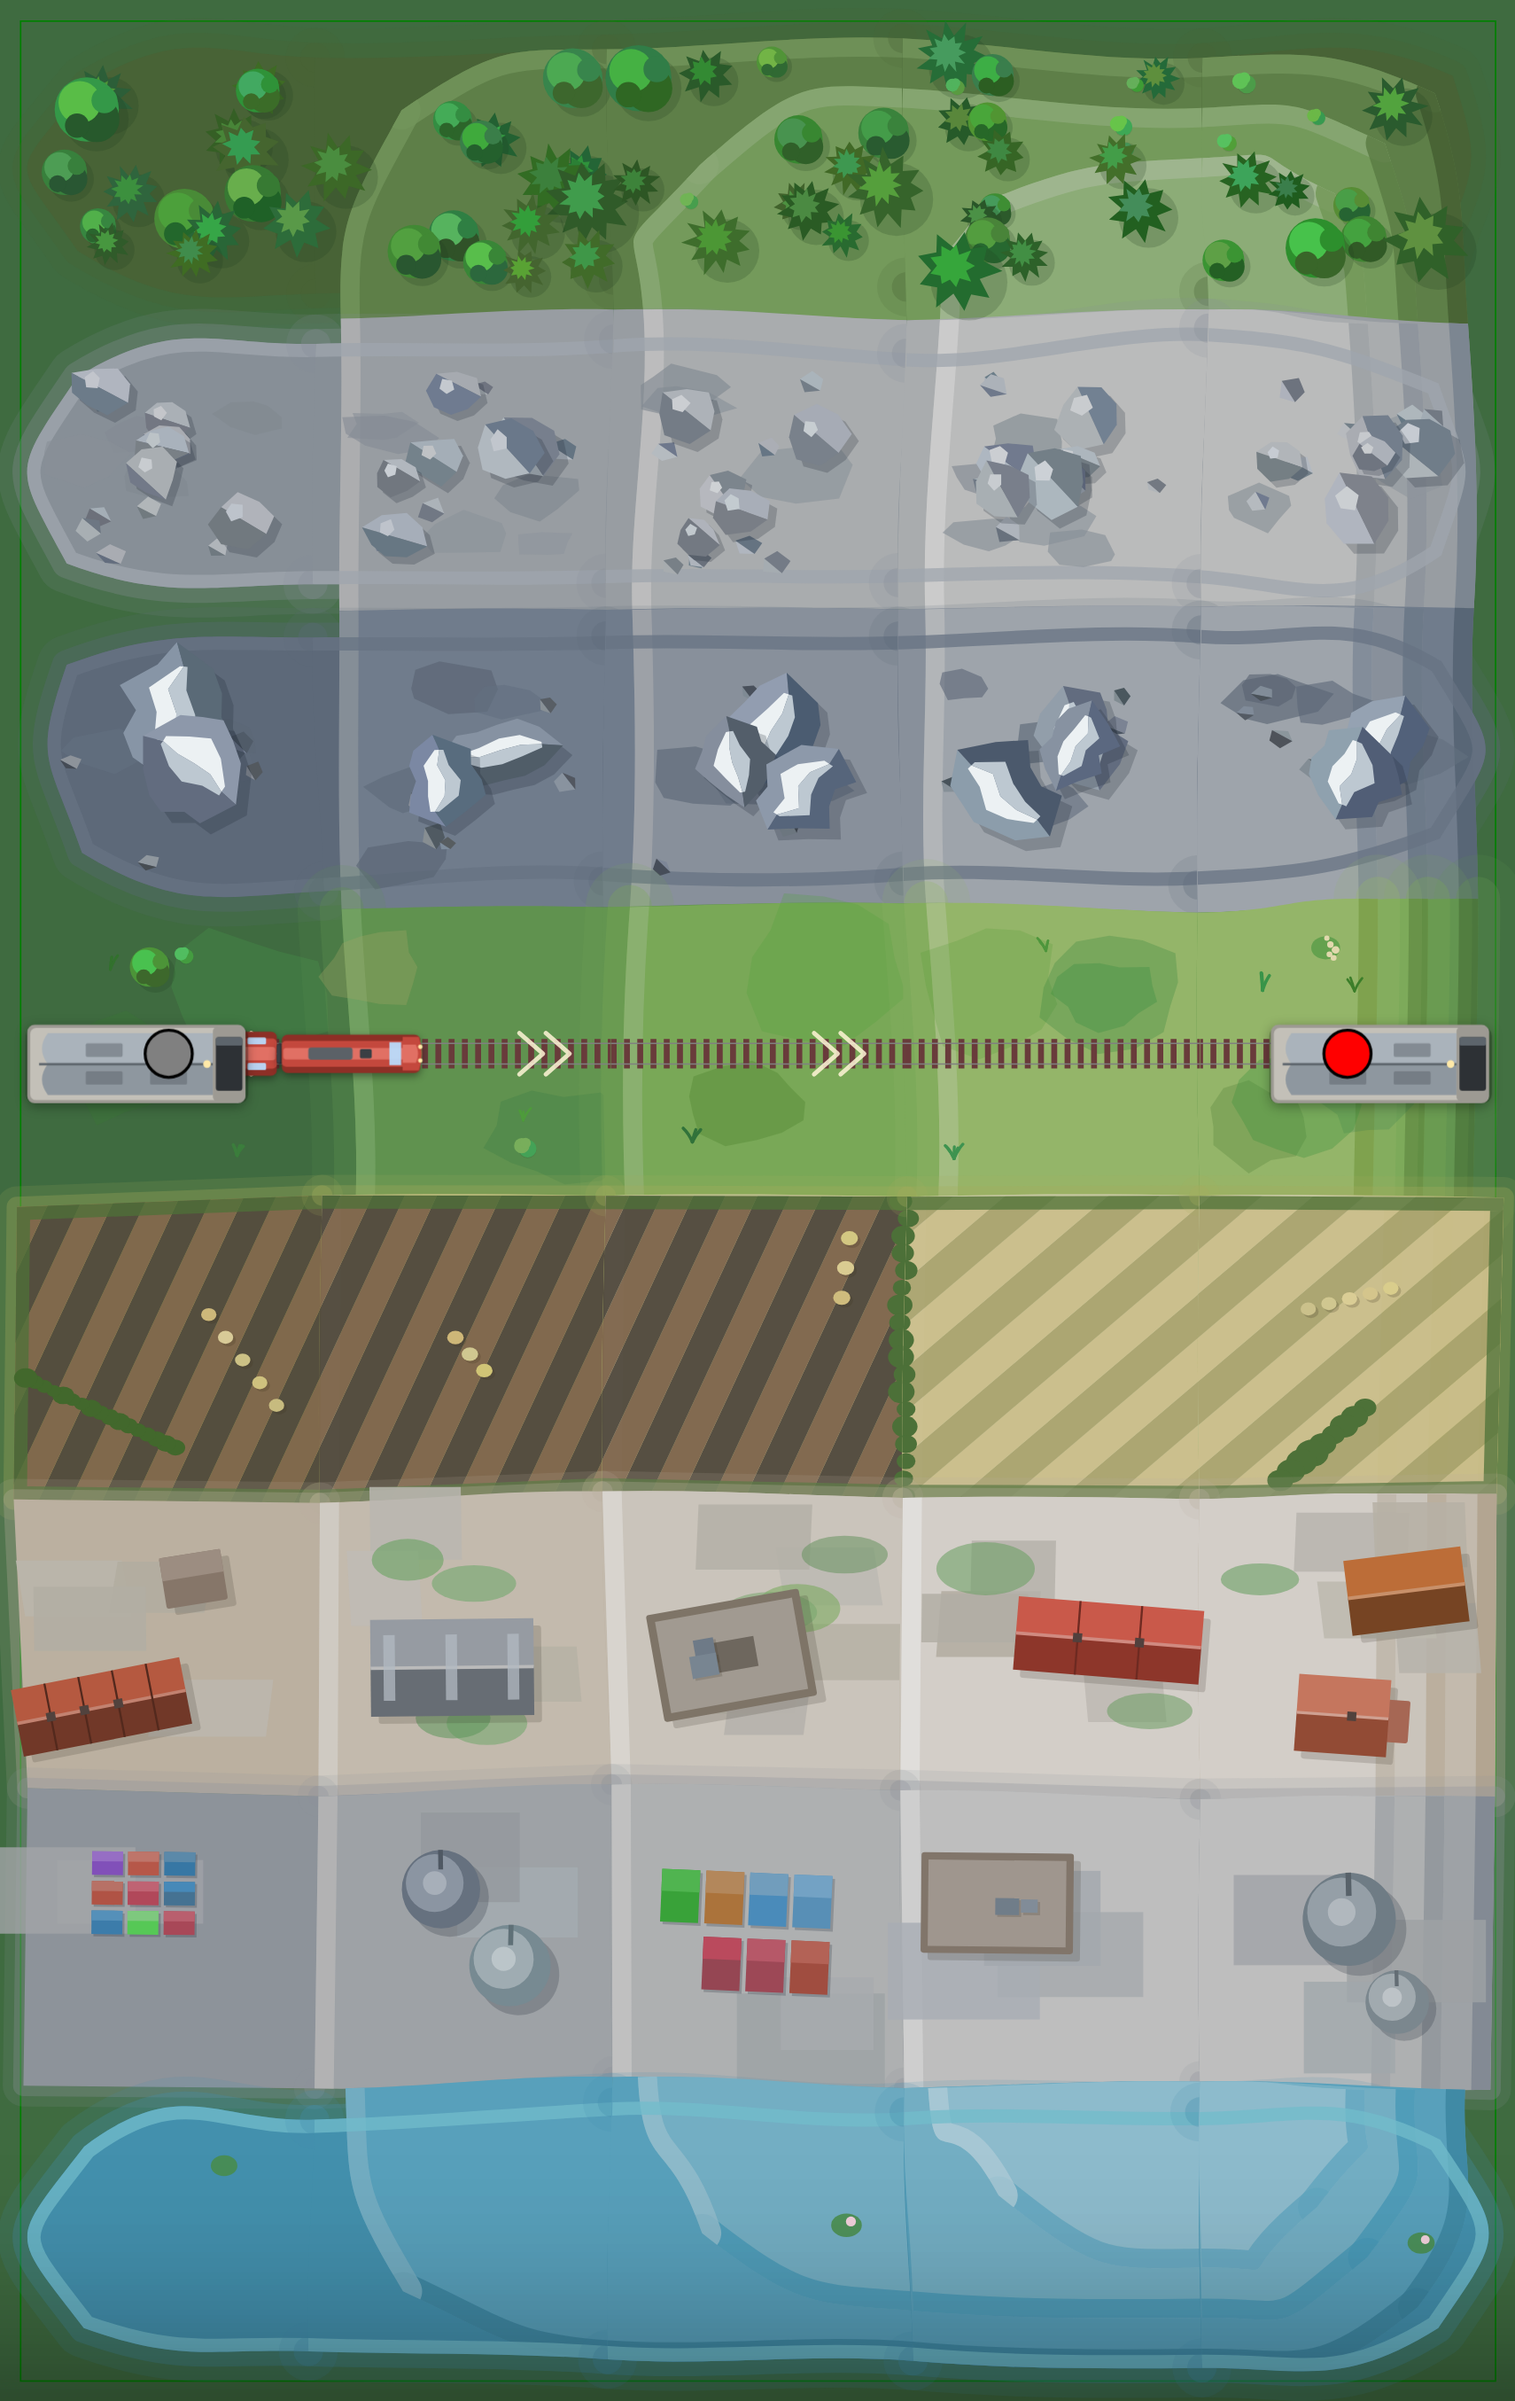
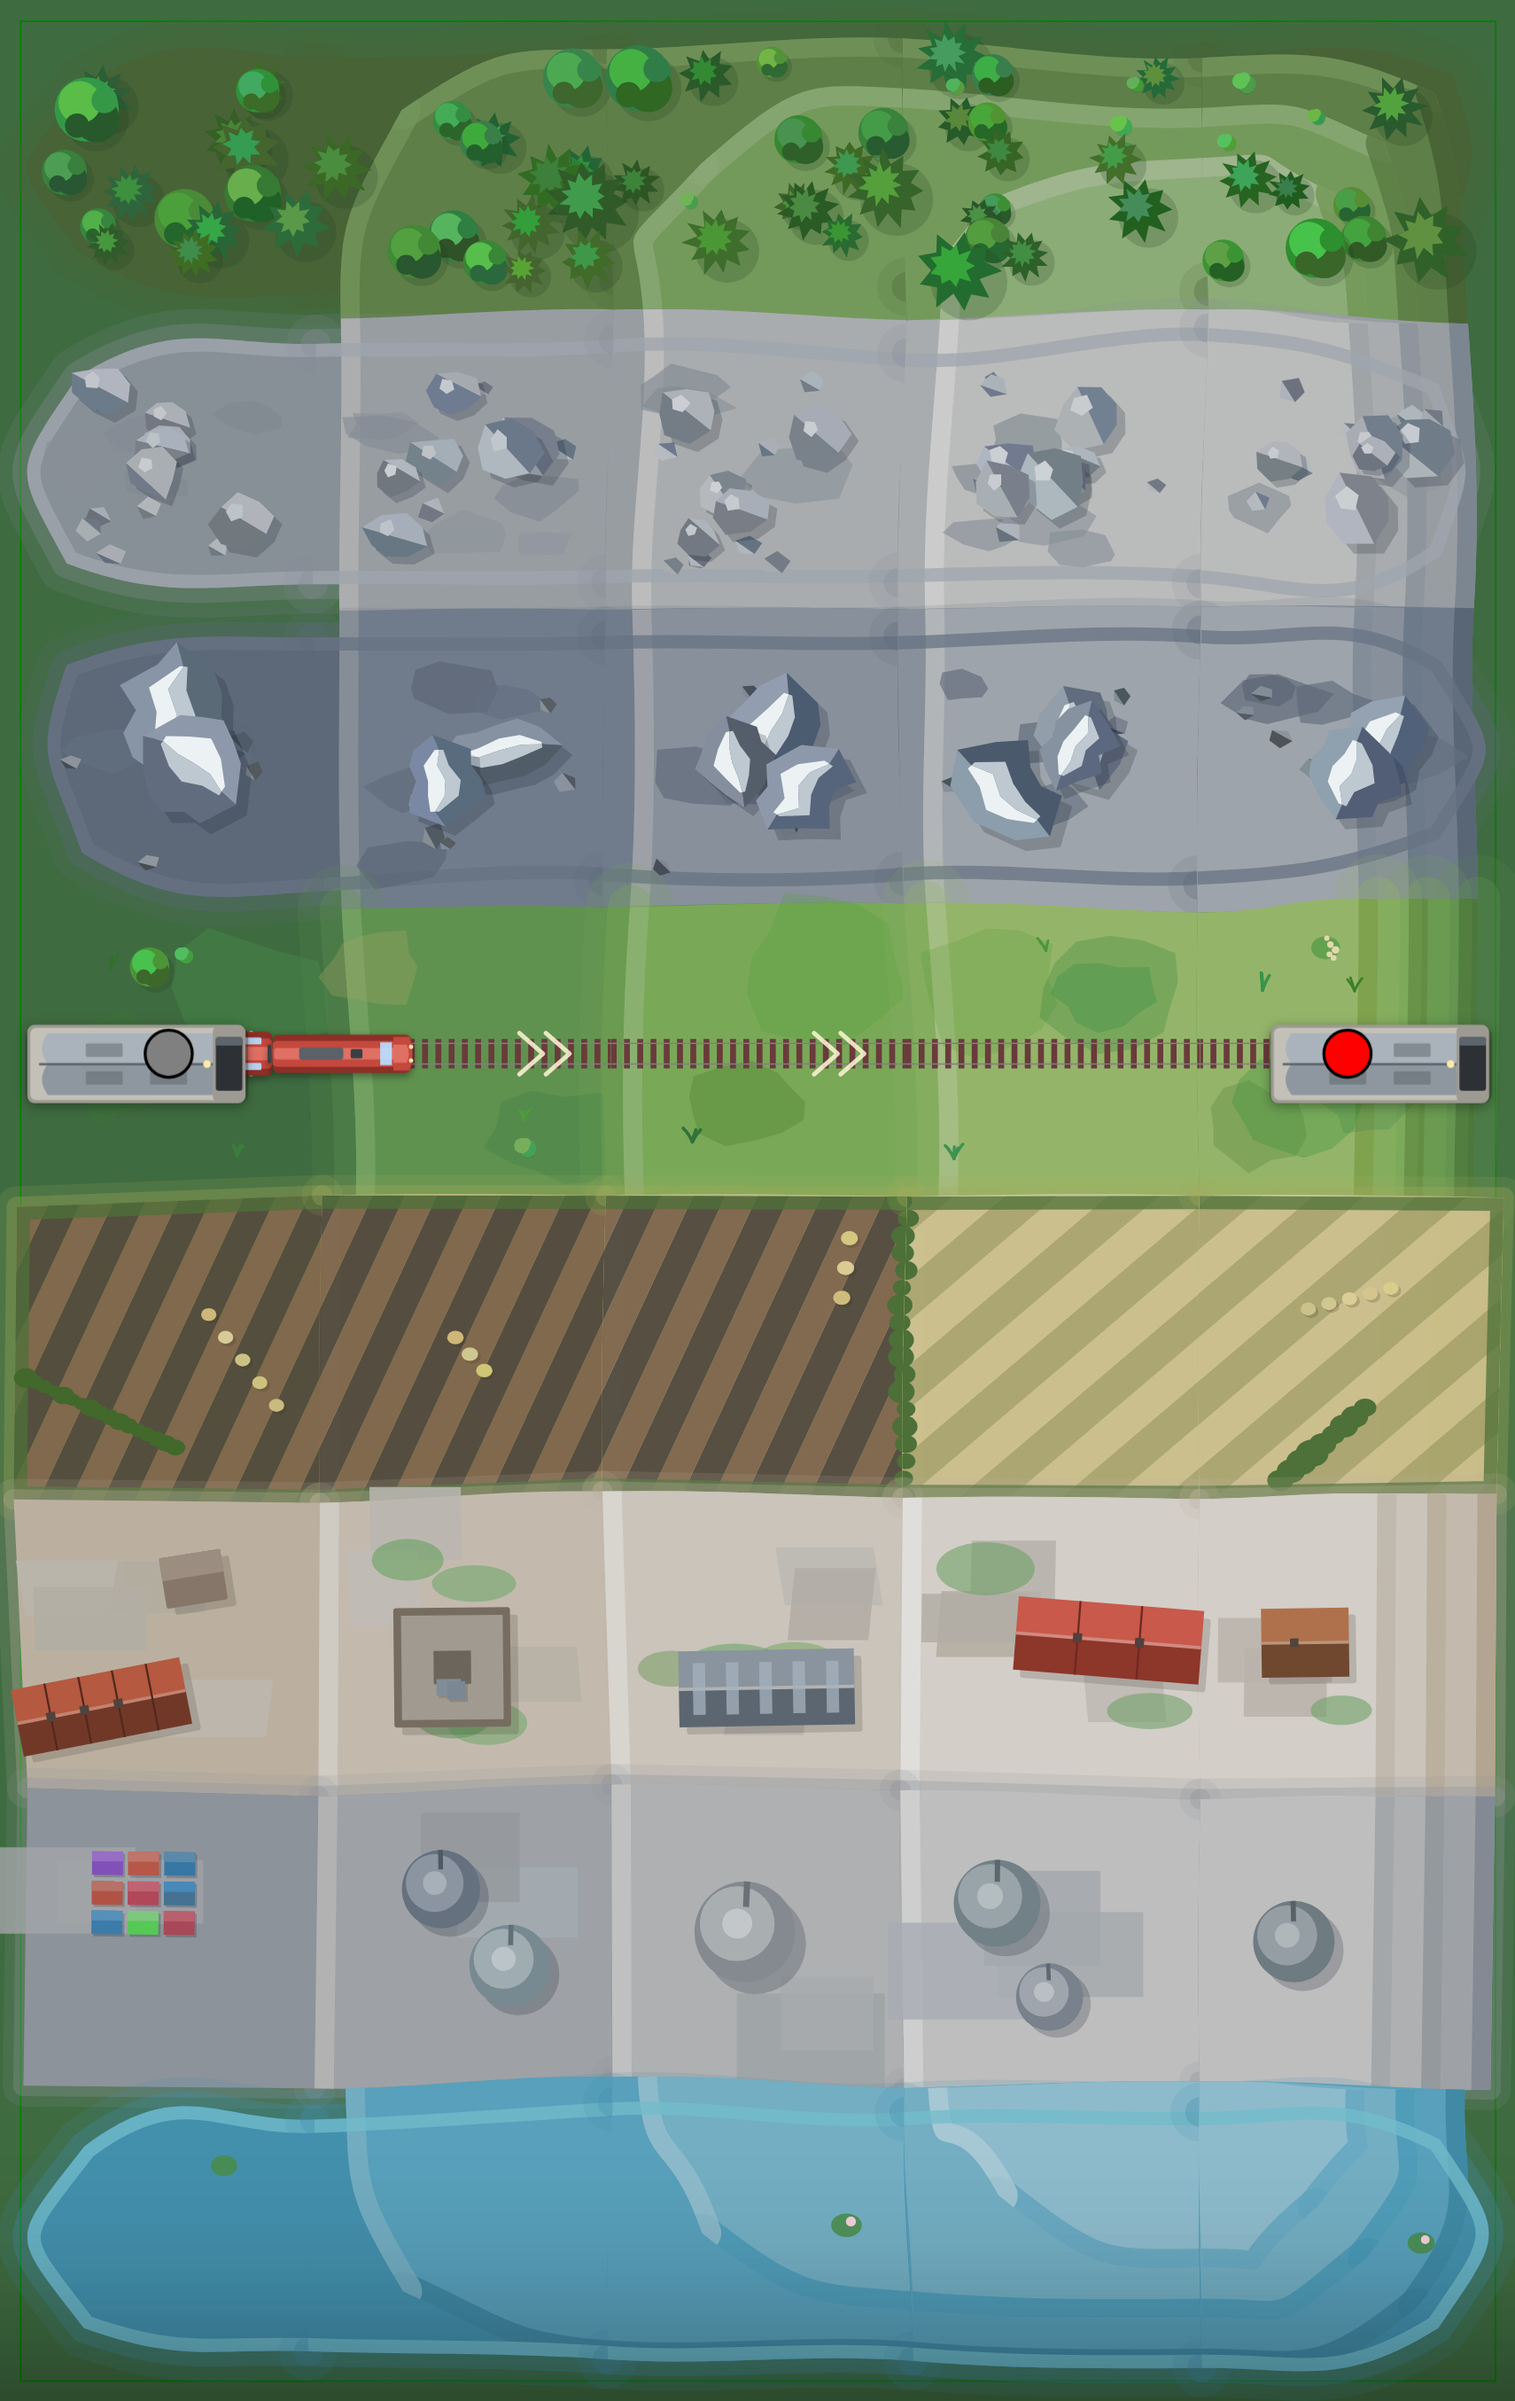
docs(knowhow): terrace banks are a keep-out, and where the elevation has to reach
Claude-Session: https://claude.ai/code/session_01XvNN9jjfjdzYApJvPqa68W

diff --git a/docs/KNOWHOW.md b/docs/KNOWHOW.md
@@ -1216,6 +1216,25 @@ lean — prune as much as you add. This file only stays useful if every task ten
     raised rock field its scree and a raised town its paving — all ON the
     lighter step. Grass puts it first (it has no fill), which is byte-for-byte
     what the view used to emit, so every grass board renders unchanged.
+  · NOTHING BUILDS ON A BANK (`terraceBanks`). Where a terrace stops, the
+    ground breaks — a slope face on a hillside, a cut retaining wall in a town —
+    and a block dropped across a step came out half on the upper bench and half
+    on the lower one. The banks are pushed onto the SAME `blockers` list that
+    keeps buildings off rails and roads, so the existing gate does the work: a
+    block near a step shrinks to what fits the bench and one that fits nothing
+    is dropped. BUILDINGS ONLY (urban/industry) — a wood that stepped back from
+    every contour would be a wood full of bald rings.
+    · TWO SOURCES, and the second is the trap: the first step off a summit lands
+      on the SHARED boundary and is drawn by the UPPER tile alone, so the tile
+      at the foot of that wall (whose buildings overhang the tile edge by
+      TOWN_OVERHANG) knows nothing about it. Each side reads the same boundary
+      from its own `HeightNeighbours` — mine falls to yours / yours rises above
+      mine — so neither needs the other's neighbours. THAT is why a FLAT cell
+      gets an `Elevation` too (`TileGround.elevation` no longer bails at h0).
+    · The elevation must reach `tileScatterSvg`/`tileCanopySvg` as well, not
+      just `tileGroundSvg`: scatter is built by its own call with its own memo
+      entry, and threading it into the ground alone left the banks nowhere near
+      the placement that needed them (they silently did nothing).
   · Pinned in `heightTerraces.spec.ts` ("terraces on terrain") +
     `terrain.spec.ts` ("elevated ground"); `/test/hillsides` is the picture —
     one slope, eight grounds, the grass row in the middle as the control.
